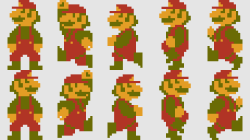
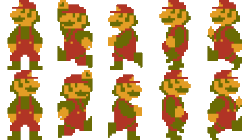
mario_man 수정

diff --git a/Mario.py b/Mario.py
@@ -16,6 +16,8 @@ class mario :
         self.frame = 0
         #self.img = load_image('mario.png')
         self.img = load_image('m1.png')
+        self.img_man = load_image('mario_man.png')
+        self.level = 0
         self.walk_frame = 0
         self.idle_frame = 0
         self.jump = True
@@ -32,10 +34,16 @@ class mario :
         return self.x,self.y
 
     def get_bb(self):
-        return self.x - 25,self.y + 25,self.x + 25,self.y - 25
+        if self.level == 0:
+            return self.x - 25,self.y + 25,self.x + 25,self.y - 25
+        else:
+            return self.x - 25, self.y + 35, self.x + 25, self.y - 35
 
     def get_foot_bb(self):
-        return self.x - 20,self.y-24,self.x+20,self.y-25
+        if self.level == 0:
+            return self.x - 20,self.y-24,self.x+20,self.y-25
+        else:
+            return self.x - 20, self.y - 34, self.x + 20, self.y - 34
 
     def set_addpos(self,x,y):
         self.x += x
@@ -48,22 +56,40 @@ class mario :
         return self.state[state]
 
     def draw_walk(self):
-        if self.dir == 0:
-            self.img.clip_draw(self.walk_frame * self.weith,0,self.weith,self.height,self.x,self.y)
-        if self.dir == 1:
-            self.img.clip_draw(self.walk_frame * self.weith,self.height,self.weith,self.height,self.x,self.y)
+        if self.level == 0:
+            if self.dir == 0:
+                self.img.clip_draw(self.walk_frame * self.weith,0,self.weith,self.height,self.x,self.y)
+            elif self.dir == 1:
+                self.img.clip_draw(self.walk_frame * self.weith,self.height,self.weith,self.height,self.x,self.y)
+        if self.level == 1:
+            if self.dir == 0:
+                self.img_man.clip_draw(self.walk_frame * self.weith,0,self.weith,self.height + 20,self.x,self.y)
+            elif self.dir == 1:
+                self.img_man.clip_draw(self.walk_frame * self.weith,self.height + 20,self.weith,self.height + 20,self.x,self.y)
 
     def draw_idle(self):
-        if self.dir == 0:
-            self.img.clip_draw(0,0,self.weith,self.height,self.x,self.y)
-        if self.dir == 1:
-            self.img.clip_draw(0,self.height,self.weith,self.height,self.x,self.y)
+        if self.level == 0:
+            if self.dir == 0:
+                self.img.clip_draw(0,0,self.weith,self.height,self.x,self.y)
+            elif self.dir == 1:
+                self.img.clip_draw(0,self.height,self.weith,self.height,self.x,self.y)
+        if self.level == 1:
+            if self.dir == 0:
+                self.img_man.clip_draw(0,0,self.weith,self.height + 20,self.x,self.y)
+            elif self.dir == 1:
+                self.img_man.clip_draw(0,self.height + 20,self.weith,self.height + 20,self.x,self.y)
 
     def draw_jump(self):
-        if self.dir == 0:
-            self.img.clip_draw(50, 0, 50, 50, self.x, self.y)
-        if self.dir == 1:
-            self.img.clip_draw(50, 50, 50, 50, self.x, self.y)
+        if self.level == 0:
+            if self.dir == 0:
+                self.img.clip_draw(50, 0, 50, 50, self.x, self.y)
+            elif self.dir == 1:
+                self.img.clip_draw(50, 50, 50, 50, self.x, self.y)
+        if self.level == 1:
+            if self.dir == 0:
+                self.img_man.clip_draw(50,0,self.weith,self.height + 20,self.x,self.y)
+            elif self.dir == 1:
+                self.img_man.clip_draw(50,self.height + 20,self.weith,self.height + 20,self.x,self.y)
 
     def handle_events(self,get_events):
         events = get_events
@@ -157,7 +183,7 @@ class mario :
         elif self.state['IDLE']:
             self.draw_idle()
 
-        #draw_rectangle(*self.get_bb())
+        draw_rectangle(*self.get_bb())
         #draw_rectangle(*self.get_foot_bb())
 
     def Collision_block(self,block):
@@ -193,15 +219,21 @@ class mario :
             if b == True:
                 # mario.set_addpos(0,gapy + 0.01)
                 if self.jump == False:
-                    self.set_addpos(0, gapy - 0.1)
+                    if self.level == 0:
+                        self.set_addpos(0, gapy - 0.1)
+                    else:
+                        self.set_addpos(0, gapy - 1.0)
+
                     self.jump = True
                     self.accel = 0
                     self.dropSpeed = 0
+                    print('1')
                     #self.jump_time = 1.5
                     if self.state['IDLE'] == False:
                         self.set_state(True, False, False)
             if t == True:
                 block.collision_event()
+                print('2')
                 self.dropSpeed = 0
                 self.jump = False
                 self.set_addpos(0, -gapy - 0.01)

diff --git a/item.py b/item.py
@@ -8,7 +8,7 @@ COIN_MOVE_SPEED_MPM = (COIN_MOVE_SPEED_KMPH * 1000.0 / 60.0)
 COIN_MOVE_SPEED_MPS = (COIN_MOVE_SPEED_MPM / 60.0)
 COIN_MOVE_SPEED_PPS = (COIN_MOVE_SPEED_MPS * PIXEL_PER_METER)
 
-MUSH_MOVE_SPEED_KMPH = 10.0  # Km / Hour
+MUSH_MOVE_SPEED_KMPH = 20.0  # Km / Hour
 MUSH_MOVE_SPEED_MPM = (MUSH_MOVE_SPEED_KMPH * 1000.0 / 60.0)
 MUSH_MOVE_SPEED_MPS = (MUSH_MOVE_SPEED_MPM / 60.0)
 MUSH_MOVE_SPEED_PPS = (MUSH_MOVE_SPEED_MPS * PIXEL_PER_METER)
@@ -56,6 +56,11 @@ class Mush:
         if Mush.image == None:
             Mush.image = load_image('upmush.png')
         self.x,self.y = 0,0
+        self.drop = False
+        self.dropSpeed = 0
+        self.gravity = -12.8
+        self.accel = 0
+        self.dir = 0
 
     def add_pos(self,x,y):
         self.x += x
@@ -67,6 +72,12 @@ class Mush:
     def get_bb(self):
         return self.x - 25, self.y + 25, self.x + 25, self.y - 25
 
+    def get_pos(self):
+        return self.x,self.y
+
+    def chage_dir(self,dir):
+        self.dir = dir
+
     def enter(self):
         pass
 
@@ -76,12 +87,25 @@ class Mush:
     def update(self):
         self.add_pos(-GM.OFFSET_GAP, 0)
 
-        self.collision()
+        if self.dir == 0:  # 왼쪽
+            self.x -= MUSH_MOVE_SPEED_PPS * game_framework.frame_time
+        elif self.dir == 1:  # 오른쪽
+            self.x += MUSH_MOVE_SPEED_PPS * game_framework.frame_time
+
+        if self.drop == True:
+            self.dropSpeed += self.accel
+            self.accel += self.gravity * game_framework.frame_time
+            if self.accel <= -300:
+                self.accel = -300
+
+        self.y += self.dropSpeed * game_framework.frame_time
+
+        self.to_mario_collision()
 
     def draw(self):
         Mush.image.clip_draw(0, 0, 50, 50, self.x, self.y)
 
-    def collision(self):
+    def to_mario_collision(self):
         mleft, mtop, mright, mbottom = GM.my_mario.get_bb()
         ileft, itop, iright, ibottom = self.get_bb()
 
@@ -91,3 +115,63 @@ class Mush:
         if mbottom > itop: return False
 
         GM.remove_object(self)
+        if GM.my_mario.level == 0:
+            GM.my_mario.level = 1
+            GM.my_mario.set_addpos(0,50)
+
+
+    def Collsion_block(self,block):
+        eleft, etop, eright, ebottom = self.get_bb()
+        bleft, btop, bright, bbottom = block.get_bb()
+
+        if ebottom - 50 > btop:
+            self.drop = True
+            return
+        if eleft - 50 > bright : return
+        if eright + 50 < bleft: return
+        if etop + 50 < bbottom: return
+
+
+        if ebottom > btop:
+            self.drop = True
+            return
+        if eleft > bright: return
+        if eright < bleft: return
+        if etop < bbottom: return
+
+
+        mx, my = self.get_pos()
+        bx, by = block.get_pos()
+        l, r, b, t = False, False, False, False
+
+        gapx, gapy = 0, 0
+        # enemy 기준충돌위치
+        if mx >= bx:  # 왼쪽충돌 +
+            gapx = bright - eleft
+            l = True
+        elif mx <= bx:  # 오른쪽충돌 -
+            gapx = eright - bleft
+            r = True
+        if my >= by:  # 아래 충돌 +
+            gapy = btop - ebottom
+            b = True
+        elif my <= by:  # 위 충돌 -
+            gapy = etop - bbottom
+            t = True
+
+        if gapx > gapy:
+            if b == True:
+                # mario.set_addpos(0,gapy + 0.01)
+                if self.drop == True:
+                    self.add_pos(0, gapy)
+                    self.dropSpeed = 0
+                    self.accel = 0
+                    self.drop = False
+        else:
+            if not block.get_type() == '1':
+                if l == True:
+                    self.add_pos(gapx + 0.01, 0)
+                    self.chage_dir(1)
+                if r == True:
+                    self.add_pos(-gapx - 0.01, 0)
+                    self.chage_dir(0)

diff --git a/state_1.py b/state_1.py
@@ -70,7 +70,11 @@ def update():
             GM.my_mario.kill_enemy()
             enemy.set_state('DIE')
             GM.enemys.remove(enemy)
-            GM.remove_object(enemy)
+            #GM.remove_object(enemy)
+
+    for mush in GM.items:
+        for block in GM.map:
+            mush.Collsion_block(block)
 
 
 def draw():

diff --git a/ENEMY.py b/ENEMY.py
@@ -55,7 +55,7 @@ class Enemy:
 
     def update(self):
         self.add_pos(-GM.OFFSET_GAP, 0)
-        if self.x <= -100:
+        if self.x <= -100 or self.y <= -10:
             GM.remove_object(self)
 
         if self.x > GM.GAME_WIDTH: return

diff --git a/block.py b/block.py
@@ -88,6 +88,7 @@ class block:
         mush = Mush()
         mush.set_pos(self.x,self.y+50)
         GM.add_object(mush, 1)
+        GM.items.append(mush)
 
     def collision_event(self):
         if self.get_type() == 'bitem':
